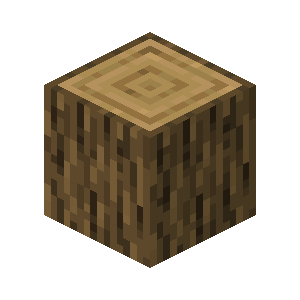
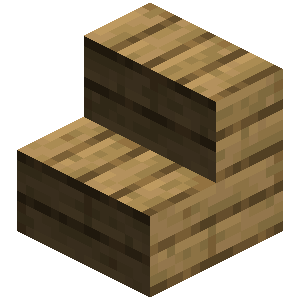
Fix transformations and element coordinates

diff --git a/src/hexdoc/graphics/render.py b/src/hexdoc/graphics/render.py
@@ -5,10 +5,10 @@ from __future__ import annotations
 import math
 from dataclasses import dataclass
 from pathlib import Path
-from typing import Any
+from typing import Any, Literal
 
 import importlib_resources as resources
-import moderngl
+import moderngl as mgl
 import moderngl_window as mglw
 import numpy as np
 from moderngl import Context, Uniform
@@ -23,14 +23,18 @@ from hexdoc.graphics import glsl
 from hexdoc.minecraft.assets import AnimationMeta
 from hexdoc.minecraft.assets.animated import AnimationMetaFrame
 from hexdoc.minecraft.models import BlockModel
-from hexdoc.minecraft.models.base import FaceName, ModelElement
+from hexdoc.minecraft.models.base import (
+    DisplayPosition,
+    ElementFace,
+    FaceName,
+    ModelElement,
+)
 from hexdoc.minecraft.models.load import load_model
 
 # https://minecraft.wiki/w/Help:Isometric_renders#Preferences
 LIGHT_UP = 0.98
 LIGHT_LEFT = 0.8
 LIGHT_RIGHT = 0.608
-LIGHT_BACK = 0.25
 
 
 @dataclass
@@ -96,29 +100,35 @@ class BlockRendererConfig(WindowConfig):
     def __init__(self, ctx: Context, wnd: HeadlessWindow):
         super().__init__(ctx, wnd)
 
-        files = resources.files(glsl)
-        self.prog = self.ctx.program(
-            vertex_shader=(files / "block_vertex.glsl").read_text("utf-8"),
-            fragment_shader=(files / "block_fragment.glsl").read_text("utf-8"),
+        # ensure faces are displayed in the correct order
+        self.ctx.enable(mgl.DEPTH_TEST)
+
+        self.face_prog = self.ctx.program(
+            vertex_shader=read_shader("block_face", "vertex"),
+            fragment_shader=read_shader("block_face", "fragment"),
         )
 
-        camera_size = 32  # TODO: value?
+        # self.debug_prog = self.ctx.program(
+        #     vertex_shader=read_shader("debug", "vertex"),
+        #     fragment_shader=read_shader("debug", "fragment"),
+        # )
+
+        view_size = 16  # TODO: value?
         self.projection = Matrix44.orthogonal_projection(
-            left=-camera_size / 2,
-            right=camera_size / 2,
-            top=camera_size / 2,
-            bottom=-camera_size / 2,
+            left=-view_size / 2,
+            right=view_size / 2,
+            top=view_size / 2,
+            bottom=-view_size / 2,
             near=0.01,
             far=20_000,
             dtype="f4",
         )
+
+        self.camera = orbit_camera(yaw=90, pitch=0)
+
         self.uniform("m_proj").write(self.projection)
-
-        self.camera = pitch_yaw_camera(30, -135)
         self.uniform("m_camera").write(self.camera)
-
-        # TODO: implement animations
-        self.uniform("layer").value = 0
+        self.uniform("layer").value = 0  # TODO: implement animations
 
     def render_block(
         self,
@@ -130,25 +140,41 @@ class BlockRendererConfig(WindowConfig):
 
         self.wnd.clear()
 
-        textures = dict[str, int]()
+        # load textures
+
+        texture_locs = dict[str, int]()
         for i, (name, info) in enumerate(texture_vars.items()):
-            textures[name] = i
+            texture_locs[name] = i
             texture = self.load_texture_array(
                 path=str(info.image_path),
                 layers=info.layers,
             )
-            texture.filter = (moderngl.NEAREST, moderngl.NEAREST)
+            texture.filter = (mgl.NEAREST, mgl.NEAREST)
             texture.use(i)
 
+        # transform entire model
+
         model_transform = Matrix44.identity(dtype="f4")
+
+        gui = model.display.get("gui") or DisplayPosition(
+            rotation=(30, 225, 0),
+            translation=(0, 0, 0),
+            scale=(0.625, 0.625, 0.625),
+        )
+
+        model_transform *= (
+            Matrix44.from_translation(gui.translation)
+            * Matrix44.from_x_rotation(gui.eulers[0])
+            * Matrix44.from_y_rotation(gui.eulers[1])
+            * Matrix44.from_z_rotation(gui.eulers[2])
+            * Matrix44.from_scale(gui.scale)
+        )
+
         model_transform *= Matrix44.from_translation((-8, -8, -8))
 
-        # TODO: order??? (see docstring)
-        # if gui := model.display.get("gui"):
-        #     model_transform *= Matrix44.from_eulers(gui.eulers)
-        #     model_transform *= Matrix44.from_translation(gui.translation)
-
         for element in model.elements:
+            # transform element
+
             element_transform = model_transform.copy()
             # if rotation := element.rotation:
             #     # TODO: rescale??
@@ -159,29 +185,11 @@ class BlockRendererConfig(WindowConfig):
 
             self.uniform("m_model").write(element_transform)
 
-            # TODO: face order stuff...
-            for direction in ["down", "west", "north", "south", "east", "up"]:
-                # TODO: face.rotation
-                if direction not in element.faces:
-                    continue
-
-                face = element.faces[direction]
-
-                match direction:
-                    case "up":
-                        light = LIGHT_UP
-                    case "south":
-                        light = LIGHT_LEFT
-                    case "east":
-                        light = LIGHT_RIGHT
-                    case _:
-                        light = LIGHT_BACK
-
-                self.uniform("light").value = light
-                self.uniform("texture0").value = textures[face.texture.lstrip("#")]
-
-                vao = get_element_face_vao(element, direction)
-                vao.render(self.prog)
+            # render each face of the element
+            for direction, face in element.faces.items():
+                self.uniform("light").value = get_face_light(direction)
+                self.uniform("texture0").value = texture_locs[face.texture.lstrip("#")]
+                get_face_vao(element, direction, face).render(self.face_prog)
 
         self.ctx.finish()
 
@@ -194,7 +202,7 @@ class BlockRendererConfig(WindowConfig):
         image.save("out.png", format="png")
 
     def uniform(self, name: str):
-        uniform = self.prog[name]
+        uniform = self.face_prog[name]
         assert isinstance(uniform, Uniform)
         return uniform
 
@@ -223,11 +231,10 @@ class BlockTextureInfo:
         return max_index + 1
 
 
-def get_element_face_vao(element: ModelElement, direction: FaceName) -> VAO:
+def get_face_vao(element: ModelElement, direction: FaceName, face: ElementFace):
     x1, y1, z1 = element.from_
     x2, y2, z2 = element.to
 
-    face = element.faces[direction]
     if face.uv:
         u1, v1, u2, v2 = face.uv
     else:
@@ -237,12 +244,12 @@ def get_element_face_vao(element: ModelElement, direction: FaceName) -> VAO:
     match direction:
         case "south":
             verts = [
-                x1 + x2, y1,      z1 + z2,
-                x1 + x2, y1 + y2, z1 + z2,
-                x1,      y1,      z1 + z2,
-                x1 + x2, y1 + y2, z1 + z2,
-                x1,      y1 + y2, z1 + z2,
-                x1,      y1,      z1 + z2,
+                x2, y1, z2,
+                x2, y2, z2,
+                x1, y1, z2,
+                x2, y2, z2,
+                x1, y2, z2,
+                x1, y1, z2,
             ]
             uvs = [
                 u2, v1,
@@ -254,12 +261,12 @@ def get_element_face_vao(element: ModelElement, direction: FaceName) -> VAO:
             ]
         case "east":
             verts = [
-                x1 + x2, y1,      z1,
-                x1 + x2, y1 + y2, z1,
-                x1 + x2, y1,      z1 + z2,
-                x1 + x2, y1 + y2, z1,
-                x1 + x2, y1 + y2, z1 + z2,
-                x1 + x2, y1,      z1 + z2,
+                x2, y1, z1,
+                x2, y2, z1,
+                x2, y1, z2,
+                x2, y2, z1,
+                x2, y2, z2,
+                x2, y1, z2,
             ]
             uvs = [
                 u2, v1,
@@ -271,12 +278,12 @@ def get_element_face_vao(element: ModelElement, direction: FaceName) -> VAO:
             ]
         case "down":
             verts = [
-                x1 + x2, y1,      z1,
-                x1 + x2, y1,      z1 + z2,
-                x1,      y1,      z1 + z2,
-                x1 + x2, y1,      z1,
-                x1,      y1,      z1 + z2,
-                x1,      y1,      z1,
+                x2, y1, z1,
+                x2, y1, z2,
+                x1, y1, z2,
+                x2, y1, z1,
+                x1, y1, z2,
+                x1, y1, z1,
             ]
             uvs = [
                 u2, v2,
@@ -288,12 +295,12 @@ def get_element_face_vao(element: ModelElement, direction: FaceName) -> VAO:
             ]
         case "west":
             verts = [
-                x1,      y1,      z1 + z2,
-                x1,      y1 + y2, z1 + z2,
-                x1,      y1 + y2, z1,
-                x1,      y1,      z1 + z2,
-                x1,      y1 + y2, z1,
-                x1,      y1,      z1,
+                x1, y1, z2,
+                x1, y2, z2,
+                x1, y2, z1,
+                x1, y1, z2,
+                x1, y2, z1,
+                x1, y1, z1,
             ]
             uvs = [
                 u1, v2,
@@ -305,12 +312,12 @@ def get_element_face_vao(element: ModelElement, direction: FaceName) -> VAO:
             ]
         case "north":
             verts = [
-                x1 + x2, y1 + y2, z1,
-                x1 + x2, y1,      z1,
-                x1,      y1,      z1,
-                x1 + x2, y1 + y2, z1,
-                x1,      y1,      z1,
-                x1,      y1 + y2, z1,
+                x2, y2, z1,
+                x2, y1, z1,
+                x1, y1, z1,
+                x2, y2, z1,
+                x1, y1, z1,
+                x1, y2, z1,
             ]
             uvs = [
                 u2, v1,
@@ -322,12 +329,12 @@ def get_element_face_vao(element: ModelElement, direction: FaceName) -> VAO:
             ]
         case "up":
             verts = [
-                x1 + x2, y1 + y2, z1,
-                x1,      y1 + y2, z1,
-                x1 + x2, y1 + y2, z1 + z2,
-                x1,      y1 + y2, z1,
-                x1,      y1 + y2, z1 + z2,
-                x1 + x2, y1 + y2, z1 + z2,
+                x2, y2, z1,
+                x1, y2, z1,
+                x2, y2, z2,
+                x1, y2, z1,
+                x1, y2, z2,
+                x2, y2, z2,
             ]
             uvs = [
                 u2, v2,
@@ -340,11 +347,25 @@ def get_element_face_vao(element: ModelElement, direction: FaceName) -> VAO:
     # fmt: on
 
     vao = VAO()
-
     vao.buffer(np.array(verts, dtype=np.float32), "3f", ["in_position"])
     vao.buffer(np.array(uvs, dtype=np.float32) / 16, "2f", ["in_texcoord_0"])
-
     return vao
+
+
+def get_face_light(direction: FaceName):
+    match direction:
+        case "up":
+            return LIGHT_UP
+        case "down":
+            return LIGHT_UP / 2
+        case "south":
+            return LIGHT_LEFT
+        case "north":
+            return LIGHT_LEFT / 2
+        case "east":
+            return LIGHT_RIGHT
+        case "west":
+            return LIGHT_RIGHT / 2
 
 
 def get_default_uv(element: ModelElement, direction: FaceName):
@@ -372,7 +393,7 @@ def get_default_uv(element: ModelElement, direction: FaceName):
     )
 
 
-def pitch_yaw_camera(pitch: float, yaw: float):
+def orbit_camera(pitch: float, yaw: float):
     """Both values are in degrees."""
 
     eye = np.matmul(
@@ -399,3 +420,8 @@ def pitch_yaw_camera(pitch: float, yaw: float):
         up=up,
         dtype="f4",
     )
+
+
+def read_shader(path: str, type: Literal["fragment", "vertex"]):
+    file = resources.files(glsl) / path / f"{type}.glsl"
+    return file.read_text("utf-8")

diff --git a/test.py b/test.py
@@ -6,20 +6,20 @@ from hexdoc.graphics.render import BlockRenderer
 from hexdoc.minecraft.models import load_model
 from hexdoc.minecraft.models.item import ItemModel
 
-BLOCK_ID = "minecraft:oak_log"
+MODEL_ID = "minecraft:block/oak_stairs"
 
 
 def main():
-    props_file = Path("submodules/HexMod/doc/hexdoc.toml")
+    props_file = Path("hexdoc.toml")
     props, pm, *_ = load_common_data(props_file, branch="")
 
     with ModResourceLoader.load_all(props, pm, export=False) as loader:
-        _, model = load_model(loader, "item" / ResourceLocation.from_str(BLOCK_ID))
+        _, model = load_model(loader, ResourceLocation.from_str(MODEL_ID))
         while isinstance(model, ItemModel) and model.parent:
             _, model = load_model(loader, model.parent)
 
         if isinstance(model, ItemModel):
-            raise ValueError(f"Invalid block id: {BLOCK_ID}")
+            raise ValueError(f"Invalid block id: {MODEL_ID}")
 
         with BlockRenderer(loader) as renderer:
             renderer.render_block_model(model)

diff --git a/noxfile.py b/noxfile.py
@@ -220,6 +220,21 @@ def setup(session: nox.Session):
     session.run("pre-commit", "install")
 
 
+@nox.session(python=False)
+def watch_graphics(session: nox.Session):
+    session.run(
+        "nodemon",
+        "--exec",
+        "python test.py",
+        "--watch",
+        "./src/hexdoc/graphics",
+        "--watch",
+        "test.py",
+        "-e",
+        "py,glsl",
+    )
+
+
 @nox.session
 def hexdoc(session: nox.Session):
     session.install("-e", ".")
